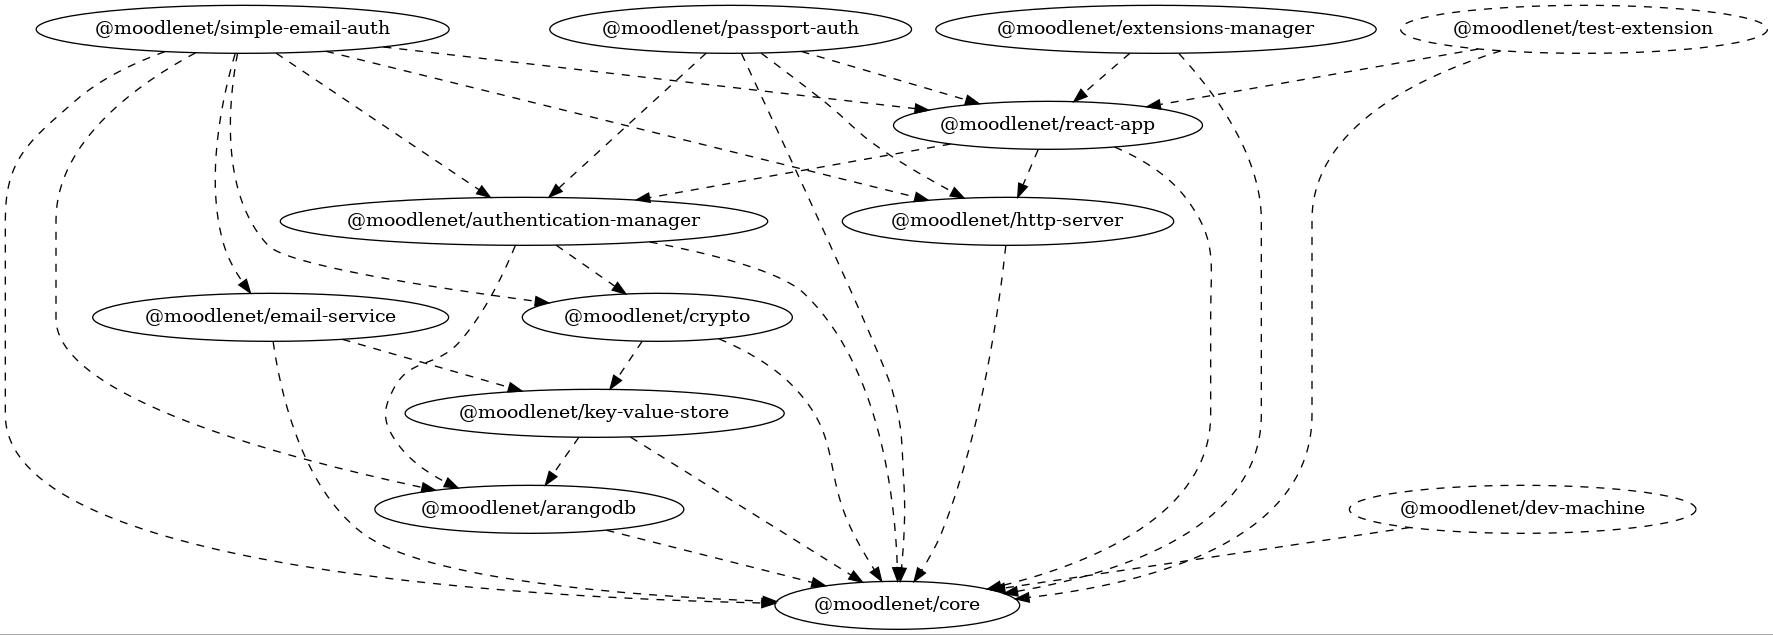
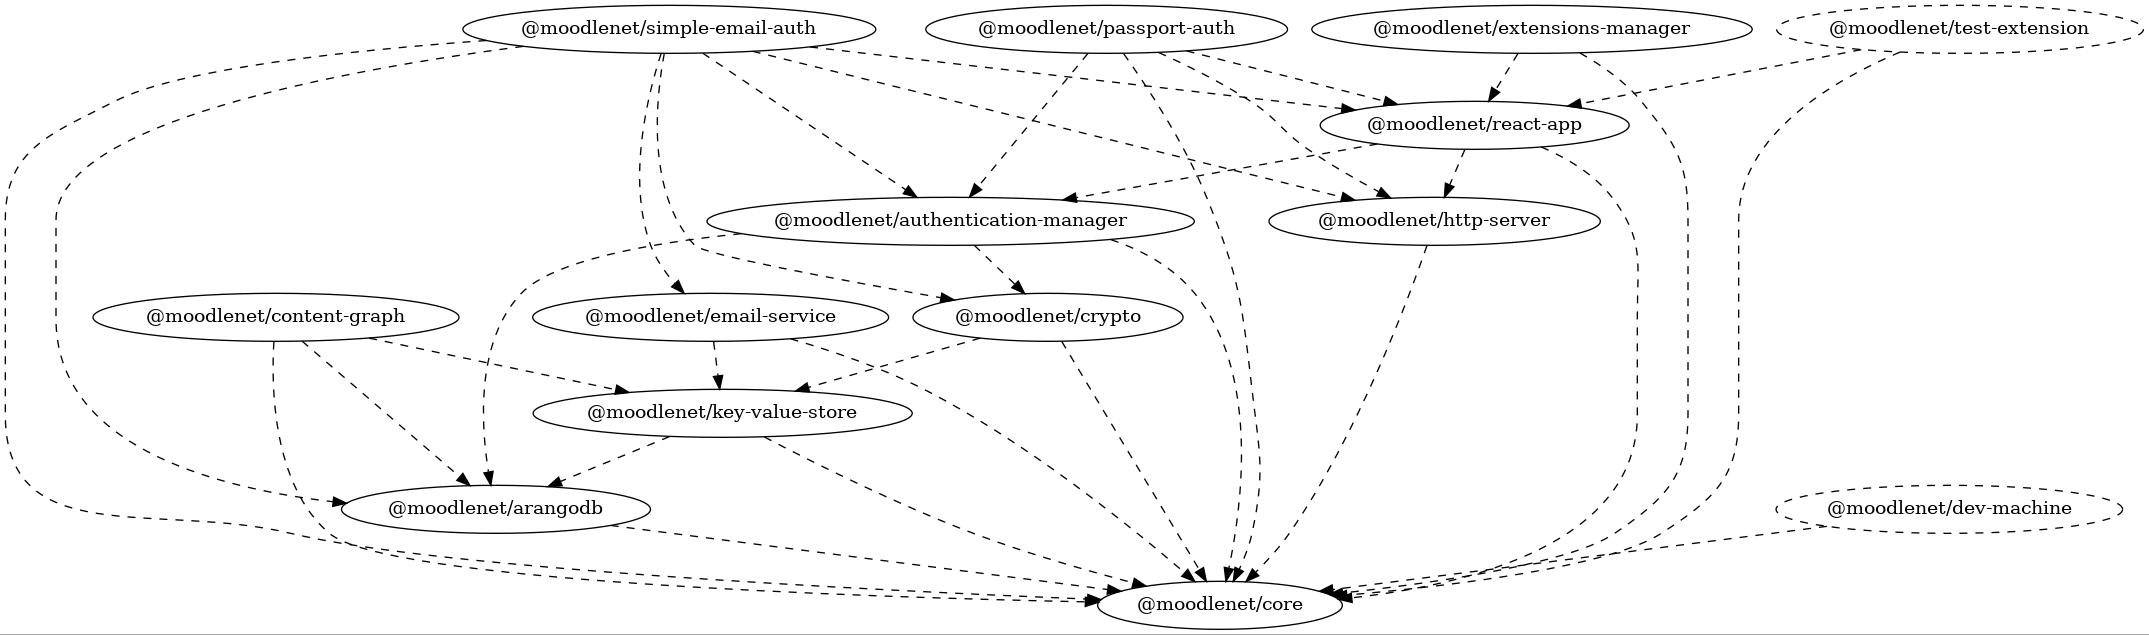
reviewed types ext-lib-factory.ts created edge

diff --git a/packages/content-graph/src/index.ts b/packages/content-graph/src/index.ts
@@ -1,22 +1,7 @@
-import type { CollectionDefOpt, CollectionDefOptMap, MNArangoDBExt } from '@moodlenet/arangodb'
-import type { CoreExt, Ext, ExtDef, ExtId } from '@moodlenet/core'
-import type { KeyValueStoreExtDef } from '@moodlenet/key-value-store'
-import {
-  ContentGraphGlyphs,
-  EdgeGlyph,
-  GlyphDescriptor,
-  GlyphDescriptorsMap,
-  Lib,
-  NodeData,
-  WithCreatorId,
-  WithMaybeKey,
-} from './types'
-import { edgeLinkIdentifiers2edgeLink, getCollectionName, glyphIdentifier2glyphID } from './utils'
+import { extLibForFactory } from './ext-lib-factory'
+import type { ContentGraphStoreExt } from './types'
+import { getCollectionName } from './utils'
 export * from './types'
-
-export type ContentGraphStoreExtDef = ExtDef<'@moodlenet/content-graph', '0.1.0', Lib>
-
-export type ContentGraphStoreExt = Ext<ContentGraphStoreExtDef, [CoreExt, MNArangoDBExt, KeyValueStoreExtDef]>
 
 export const ext: ContentGraphStoreExt = {
   name: '@moodlenet/content-graph',
@@ -24,15 +9,7 @@ export const ext: ContentGraphStoreExt = {
   requires: ['@moodlenet/core@0.1.0', '@moodlenet/arangodb@0.1.0', '@moodlenet/key-value-store@0.1.0'],
   async connect(shell) {
     const [, arangoSrv, kvStore] = shell.deps
-    const myLib = libFor(true)
-
-    const contentGraphGlyphs = await myLib.ensureGlyphs<ContentGraphGlyphs>({
-      defs: {
-        Created: { kind: 'edge' },
-        Updated: { kind: 'edge' },
-        Deleted: { kind: 'edge' },
-      },
-    })
+    const libFor = await extLibForFactory(shell)
 
     shell.onExtUninstalled(async ({ extName }) => {
       const { collectionsMeta } = await arangoSrv.plug.collections()
@@ -51,75 +28,6 @@ export const ext: ContentGraphStoreExt = {
           },
         }
       },
-    }
-
-    function libFor(extId: ExtId | true): Lib {
-      const { extName } = extId === true ? { extName: ext.name } : shell.lib.splitExtId(extId)
-      const lib: Lib = {
-        async ensureGlyphs({ defs }) {
-          const allDefs = Object.keys(defs).map<{
-            descriptor: GlyphDescriptor
-            opts: CollectionDefOpt
-            pkgGlyphName: string
-            fullGlyphName: string
-          }>(pkgGlyphName => {
-            const fullGlyphName = getCollectionName(extName, pkgGlyphName)
-            const glyphOpts = defs[pkgGlyphName]!
-            const opts: CollectionDefOpt = {
-              kind: glyphOpts.kind,
-              opts: glyphOpts.opts,
-            }
-            const descriptor: GlyphDescriptor = {
-              _kind: glyphOpts.kind,
-              // _pkg: { glyph: pkgGlyphName, pkgName: extName },
-              _type: fullGlyphName,
-            }
-            return { descriptor, opts, pkgGlyphName, fullGlyphName }
-          })
-
-          const collectionsDefOptMap = allDefs.reduce((_coll_def_opt_map, { fullGlyphName: glyphName, opts }) => {
-            return { ..._coll_def_opt_map, [glyphName]: opts }
-          }, {} as CollectionDefOptMap)
-
-          /* const handles =  */ await arangoSrv.plug.ensureCollections({ defs: collectionsDefOptMap })
-
-          const glyphDescriptorsMap = allDefs.reduce((_glyph_desc_map, { descriptor, pkgGlyphName }) => {
-            return { ..._glyph_desc_map, [pkgGlyphName]: descriptor }
-          }, {} as GlyphDescriptorsMap<any>)
-
-          return glyphDescriptorsMap
-        },
-        async createNode(glyphDesc, data, creatorId, _opts = {}) {
-          type NodeCreateData = WithMaybeKey & WithCreatorId & Omit<NodeData, '_id' | '_key'>
-          const nodeCreateData: NodeCreateData = {
-            ...data,
-            ...glyphDesc,
-            _creatorId: glyphIdentifier2glyphID(creatorId),
-          }
-          const q = `INSERT ${JSON.stringify(nodeCreateData)} INTO ${glyphDesc._type} RETURN NEW`
-          const [node] = await (await arangoSrv.plug.query({ q })).resultSet
-          return { node }
-        },
-        async createEdge(glyphDesc, data, linkId, creatorId, _opts = {}) {
-          type EdgeCreateData = WithMaybeKey & WithCreatorId & Omit<EdgeGlyph, '_id' | '_key'>
-          const link = edgeLinkIdentifiers2edgeLink(linkId)
-          const _fromType = link._from.split('/')[0]!
-          const _toType = link._to.split('/')[0]!
-          const edgeCreateData: EdgeCreateData = {
-            ...data,
-            ...glyphDesc,
-            ...link,
-            _fromType,
-            _toType,
-            _creatorId: glyphIdentifier2glyphID(creatorId),
-          }
-          const q = `INSERT ${JSON.stringify(edgeCreateData)} INTO ${glyphDesc._type} RETURN NEW`
-          const [edge] = await (await arangoSrv.plug.query({ q })).resultSet
-
-          return { edge }
-        },
-      }
-      return lib
     }
   },
 }

diff --git a/packages/content-graph/src/ext-lib-factory.ts b/packages/content-graph/src/ext-lib-factory.ts
@@ -1,0 +1,124 @@
+import { CollectionDefOpt, CollectionDefOptMap } from '@moodlenet/arangodb'
+import { ExtId, ExtShell } from '@moodlenet/core'
+import type { ContentGraphStoreExt } from './index'
+import {
+  ContentGraphGlyphs,
+  EdgeGlyph,
+  GlyphDescriptor,
+  GlyphDescriptorsMap,
+  Lib,
+  NodeGlyph,
+  WithMaybeKey,
+} from './types'
+import { edgeLinkIdentifiers2edgeLink, getCollectionName, glyphIdentifier2glyphID } from './utils'
+
+export async function extLibForFactory(shell: ExtShell<ContentGraphStoreExt>) {
+  const [, arangoSrv /* , kvStore */] = shell.deps
+  const contentGraphGlyphs = await libFor(true).ensureGlyphs<ContentGraphGlyphs>({
+    defs: {
+      Created: { kind: 'edge' },
+      Updated: { kind: 'edge' },
+      Deleted: { kind: 'edge' },
+    },
+  })
+
+  return libFor
+  function libFor(extId: ExtId | true): Lib {
+    const { extName } = extId === true ? { extName: true as const } : shell.lib.splitExtId(extId)
+
+    /*
+    ensureGlyphs
+    */
+    const ensureGlyphs: Lib['ensureGlyphs'] = async ({ defs }) => {
+      const allDefs = Object.keys(defs).map<{
+        descriptor: GlyphDescriptor
+        opts: CollectionDefOpt
+        pkgGlyphName: string
+        fullGlyphName: string
+      }>(pkgGlyphName => {
+        const fullGlyphName = getCollectionName(extName, pkgGlyphName)
+        const glyphOpts = defs[pkgGlyphName]!
+        const opts: CollectionDefOpt = {
+          kind: glyphOpts.kind,
+          opts: glyphOpts.opts,
+        }
+        const descriptor: GlyphDescriptor = {
+          _kind: glyphOpts.kind,
+          // _pkg: { glyph: pkgGlyphName, pkgName: extName },
+          _type: fullGlyphName,
+        }
+        return { descriptor, opts, pkgGlyphName, fullGlyphName }
+      })
+
+      const collectionsDefOptMap = allDefs.reduce((_coll_def_opt_map, { fullGlyphName: glyphName, opts }) => {
+        return { ..._coll_def_opt_map, [glyphName]: opts }
+      }, {} as CollectionDefOptMap)
+
+      /* const handles =  */ await arangoSrv.plug.ensureCollections({ defs: collectionsDefOptMap })
+
+      const glyphDescriptorsMap = allDefs.reduce((_glyph_desc_map, { descriptor, pkgGlyphName }) => {
+        return { ..._glyph_desc_map, [pkgGlyphName]: descriptor }
+      }, {} as GlyphDescriptorsMap<any>)
+
+      return glyphDescriptorsMap
+    }
+
+    /*
+    createNode
+    */
+    const createNode: Lib['createNode'] = async (glyphDesc, data, opts = {}) => {
+      type NodeCreateData = WithMaybeKey & Omit<NodeGlyph, '_id' | '_key'>
+      const nodeCreateData: NodeCreateData = {
+        ...data,
+        ...glyphDesc,
+      }
+      const q = `INSERT ${JSON.stringify(nodeCreateData)} INTO ${glyphDesc._type} RETURN NEW`
+      const node: NodeGlyph<typeof glyphDesc> = (await arangoSrv.plug.query({ q })).resultSet[0]
+      if (opts.performerNode) {
+        const _creatorId = glyphIdentifier2glyphID(opts.performerNode)
+        await createEdge(contentGraphGlyphs.Created, {}, { _from: _creatorId, _to: node._id })
+      }
+      return { node }
+    }
+
+    /*
+    createEdge
+    */
+    const createEdge: Lib['createEdge'] = async (glyphDesc, data, linkId, _opts = {}) => {
+      const link = edgeLinkIdentifiers2edgeLink(linkId)
+      const _fromType = link._from.split('/')[0]!
+      const _toType = link._to.split('/')[0]!
+      // const edgeMeta:Omit<EdgeGlyphMeta, '_id' | '_key'>={
+      //   ...glyphDesc,
+      //   ...link,
+      //   _fromType,
+      //   _toType,
+      // }
+      type EdgeCreateData = WithMaybeKey & Omit<EdgeGlyph, '_id' | '_key'>
+      const edgeCreateData: EdgeCreateData = {
+        ...data,
+        ...glyphDesc,
+        ...link,
+        _fromType,
+        _toType,
+      }
+
+      const q = `INSERT ${JSON.stringify(edgeCreateData)} INTO ${glyphDesc._type} RETURN NEW`
+      const edge: EdgeGlyph<typeof glyphDesc> = (await arangoSrv.plug.query({ q })).resultSet[0]
+
+      // if (opts.performer) {
+      //   const _creatorId = glyphIdentifier2glyphID(opts.performer)
+      //   await createEdge(contentGraphGlyphs.Created, {}, { _from: _creatorId, _to: edge._id })
+      // }
+
+      return { edge }
+    }
+
+    /**/
+    return {
+      ensureGlyphs,
+      createNode,
+      createEdge,
+    }
+  }
+}

diff --git a/packages/content-graph/src/types.ts b/packages/content-graph/src/types.ts
@@ -1,4 +1,16 @@
-import { CollectionDef, CollectionDefOpt, CollectionKind, CollectionOpts } from '@moodlenet/arangodb'
+import type {
+  CollectionDef,
+  CollectionDefOpt,
+  CollectionKind,
+  CollectionOpts,
+  MNArangoDBExt,
+} from '@moodlenet/arangodb'
+import type { CoreExt, Ext, ExtDef } from '@moodlenet/core'
+import type { KeyValueStoreExtDef } from '@moodlenet/key-value-store'
+
+export type ContentGraphStoreExtDef = ExtDef<'@moodlenet/content-graph', '0.1.0', Lib>
+
+export type ContentGraphStoreExt = Ext<ContentGraphStoreExtDef, [CoreExt, MNArangoDBExt, KeyValueStoreExtDef]>
 
 // type DateString = string
 type WithDate<T> = T //& { date: DateString }
@@ -44,13 +56,13 @@ export type GlyphID = `${string}/${string}`
 // declare const GLYPH_ID_SYMBOL: unique symbol
 // type GLYPH_ID_SYMBOL = typeof GLYPH_ID_SYMBOL
 
-export type GlyphIdentifier<Kind extends CollectionKind = CollectionKind, Type extends string = string> =
+export type GlyphIdentifier<Kind extends CollectionKind = CollectionKind, Typename extends string = string> =
   | GlyphID
   | ({
       _kind?: Kind
     } & (
       | {
-          _type: Type
+          _type: Typename
           _key: string
         }
       | {
@@ -58,14 +70,11 @@ export type GlyphIdentifier<Kind extends CollectionKind = CollectionKind, Type e
         }
     ))
 
-export type BaseGlyphMeta<GlyphDesc extends GlyphDescriptor> = GlyphDesc &
-  WithCreatorId & {
-    _key: string
-    _id: GlyphID
-  }
-export type WithCreatorId = {
-  _creatorId: GlyphID
+export type BaseGlyphMeta<GlyphDesc extends GlyphDescriptor> = GlyphDesc & /* WithCreatorId &  */ {
+  _key: string
+  _id: GlyphID
 }
+
 export type WithMaybeKey = { _key?: string }
 
 export type NodeGlyphMeta<GlyphDesc extends GlyphDescriptor<'node'> = GlyphDescriptor<'node'>> =
@@ -98,23 +107,25 @@ export type NodeData<GlyphDesc extends GlyphDescriptor<'node'> = GlyphDescriptor
 export type NodeGlyph<GlyphDesc extends GlyphDescriptor<'node'> = GlyphDescriptor<'node'>> =
   GlyphDesc[GLYPH_HANDLE_TYPE_SYMBOL] & NodeGlyphMeta<GlyphDesc>
 
+export type WithPerformerNodeIdentifier = { performerNode: GlyphIdentifier<'node'> }
+export type CreateNodeOpts = {} & WithPerformerNodeIdentifier
+export type CreateEdgeOpts = {} /* & WithPerformerIdentifier */
+
 export type Lib = {
   ensureGlyphs<Defs extends GlyphDefsMap>(_: { defs: GlyphDefOptMap<Defs> }): Promise<GlyphDescriptorsMap<Defs>>
   createNode<GlyphDesc extends GlyphDescriptor<'node'>>(
     glyphDesc: GlyphDesc,
     data: NodeData<GlyphDesc> & WithMaybeKey,
-    creatorId: GlyphIdentifier<'node'>,
-    opts?: {},
+    opts?: Partial<CreateNodeOpts>,
   ): Promise<{ node: NodeGlyph<GlyphDesc> }>
   createEdge<GlyphDesc extends GlyphDescriptor<'edge'>>(
     glyphDesc: GlyphDesc,
     data: EdgeData<GlyphDesc> & WithMaybeKey,
     linkId: EdgeLinkIdentifiers,
-    creatorId: GlyphIdentifier<'node'>,
-    opts?: Partial<{}>,
+    opts?: Partial<CreateEdgeOpts>,
   ): Promise<{ edge: EdgeGlyph<GlyphDesc> }>
 }
-/* 
+
 declare const lib: Lib
 ;async () => {
   type MyGDefMap = GlyphDefsMap<{
@@ -126,13 +137,12 @@ declare const lib: Lib
   const { EA, EB, NA, NB } = await lib.ensureGlyphs<MyGDefMap>({
     defs: { NA: { kind: 'node' }, NB: { kind: 'node' }, EA: { kind: 'edge' }, EB: { kind: 'edge' } },
   })
-  const na = await lib.createNode(NA, { na: '' }, '/')
-  const nb = await lib.createNode(NB, { nb: 1, _key: '11' }, '/')
+  const na = await lib.createNode(NA, { na: '' }, { performerNode: '/' })
+  const nb = await lib.createNode(NB, { nb: 1, _key: '11' }, { performerNode: { _type: '', _key: '' } })
   nb.node.nb.toExponential()
   na.node.na.charAt(1)
-  const ea = await lib.createEdge(EA, { ea: 0 }, { _from: na.node._id, _to: nb.node._id }, '/')
-  const eb = await lib.createEdge(EB, { eb: 'null ' }, { _from: na.node._id, _to: nb.node._id }, '/')
+  const ea = await lib.createEdge(EA, { ea: 0 }, { _from: na.node._id, _to: nb.node._id }, { performerNode: '/' })
+  const eb = await lib.createEdge(EB, { eb: 'null ' }, { _from: na.node._id, _to: nb.node._id }, { performerNode: '/' })
   eb.edge.eb.charAt(0)
   ea.edge.ea.toExponential()
 }
- */

diff --git a/packages/content-graph/src/utils.ts b/packages/content-graph/src/utils.ts
@@ -1,15 +1,16 @@
 import { ExtName } from '@moodlenet/core'
-import { ext } from './index'
 import { EdgeLink, EdgeLinkIdentifiers, GlyphID, GlyphIdentifier } from './types'
 
-export function getCollectionName(extName: ExtName, collectionBaseName: string) {
-  return extName === ext.name
+export function getCollectionName(extName: ExtName | true, collectionBaseName: string) {
+  return extName === true
     ? collectionBaseName
     : `${extName.replace('@', 'at__').replace('/', '__')}__${collectionBaseName}`
 }
+
 export function glyphIdentifier2glyphID(_: GlyphIdentifier | GlyphID): GlyphID {
   return 'string' === typeof _ ? _ : '_id' in _ ? _._id : `${_._type}/${_._key}`
 }
+
 export function edgeLinkIdentifiers2edgeLink(_: EdgeLinkIdentifiers): EdgeLink {
   return {
     _from: glyphIdentifier2glyphID(_._from),
